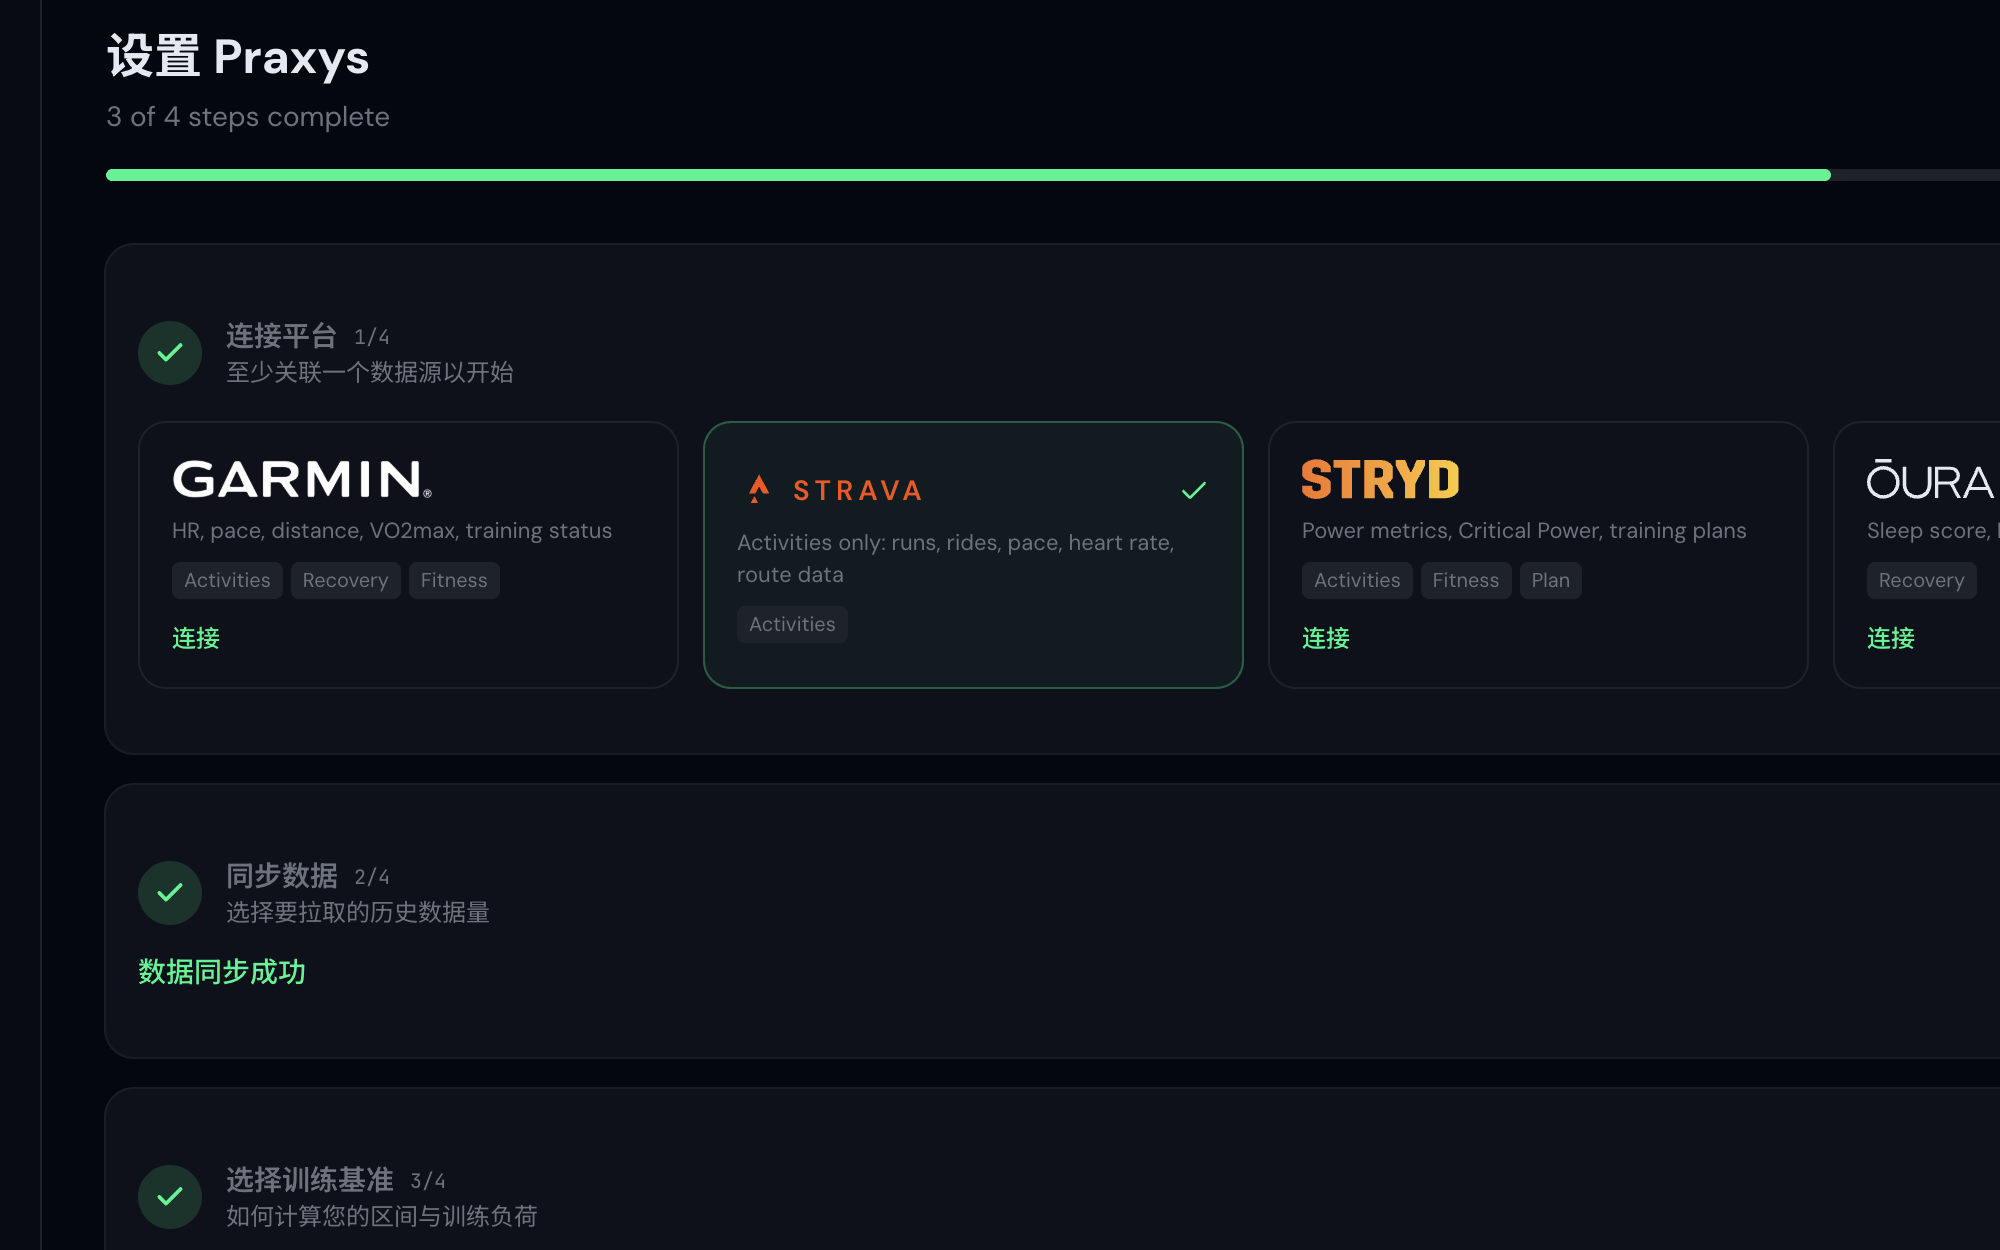
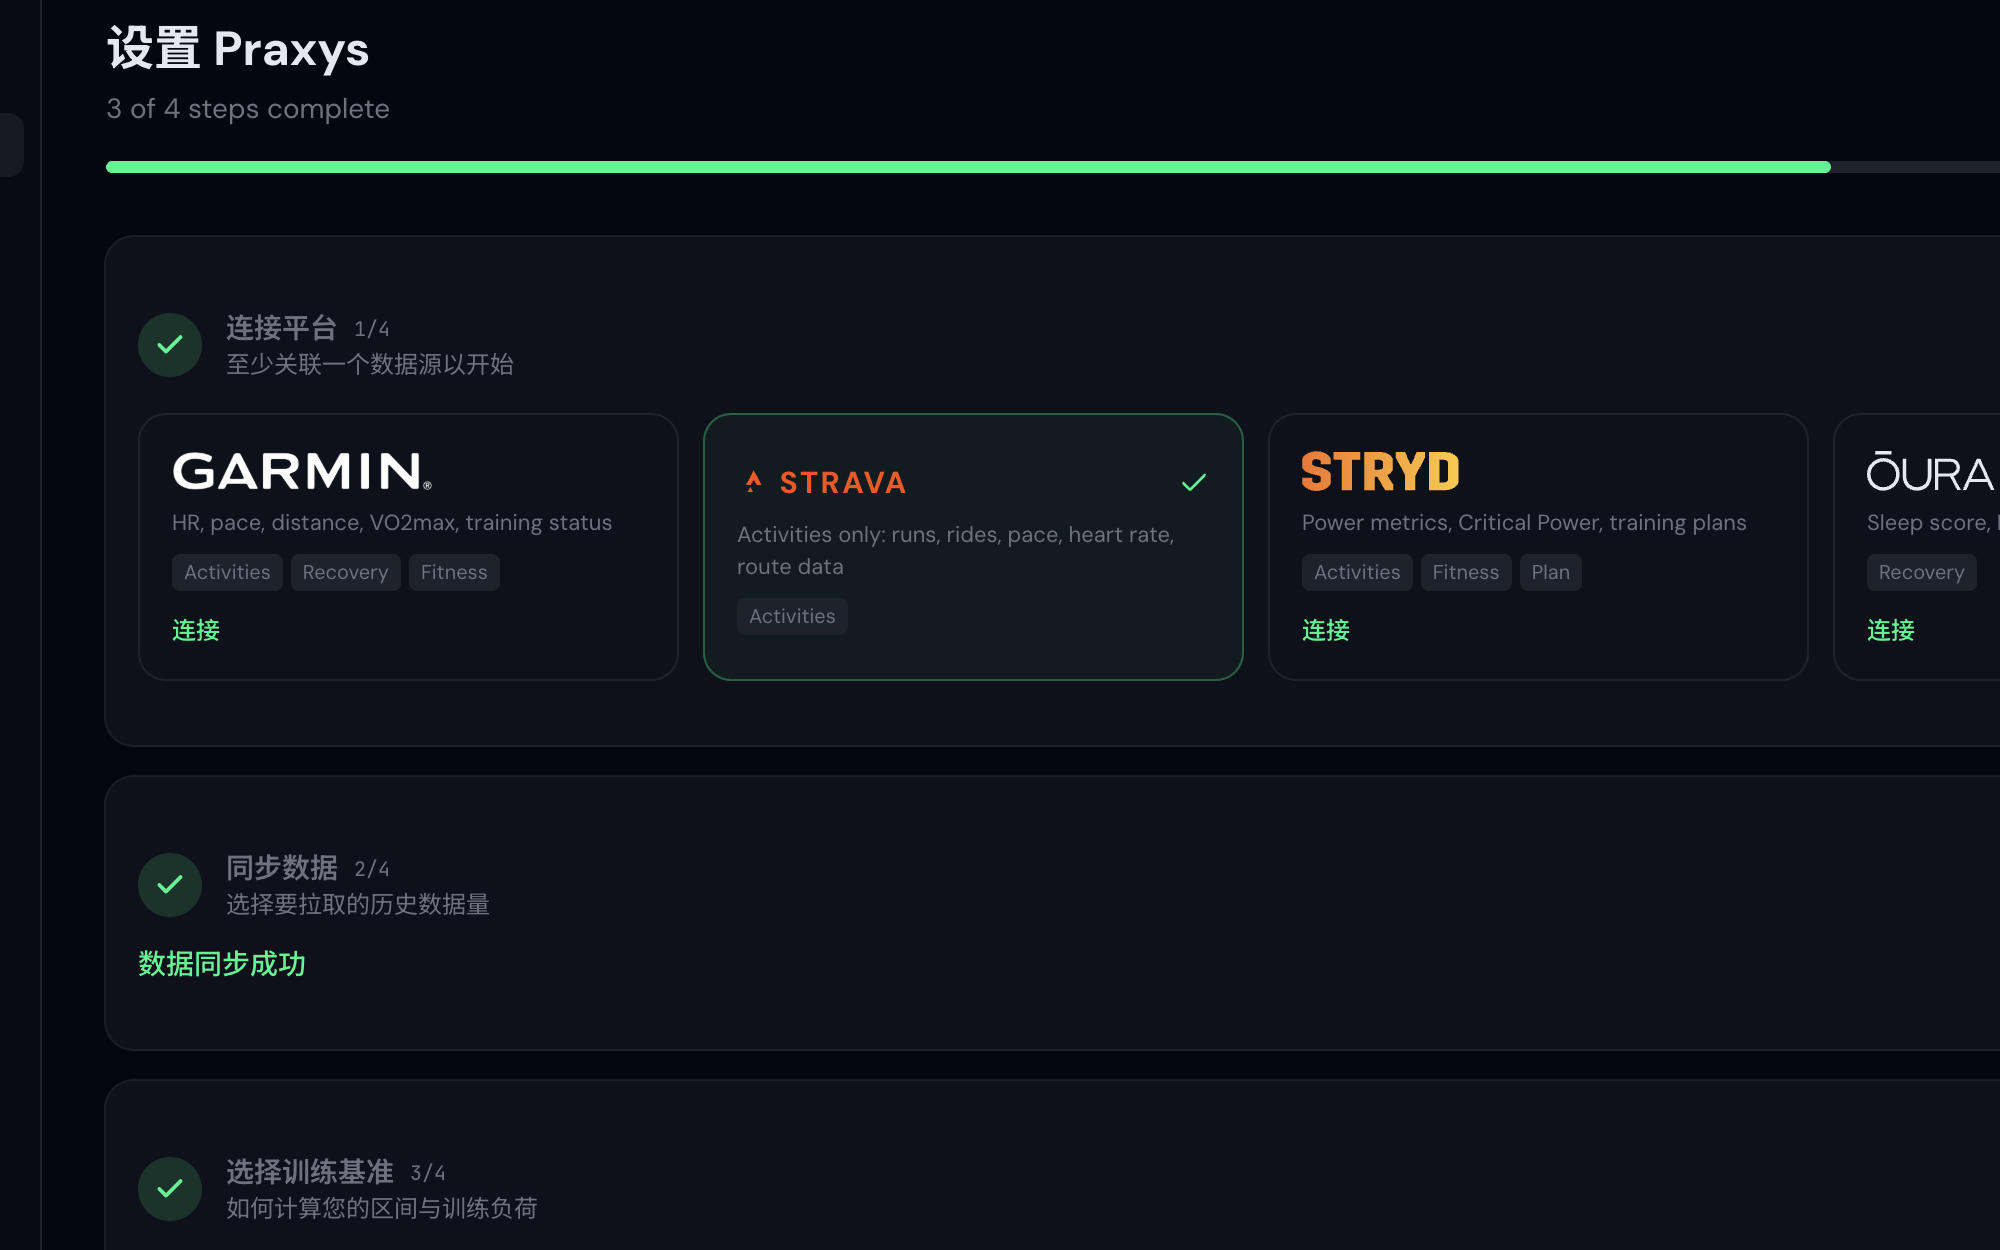
Polish Strava branding and refresh screenshot

diff --git a/web/src/pages/Setup.tsx b/web/src/pages/Setup.tsx
@@ -62,12 +62,22 @@ function StrydWordmark({ className }: { className?: string }) {
 
 function StravaWordmark({ className }: { className?: string }) {
   return (
-    <div className={`flex items-center gap-2 text-[#fc4c02] ${className ?? ''}`} aria-label="Strava">
-      <svg viewBox="0 0 24 24" fill="currentColor" className="h-5 w-auto shrink-0" aria-hidden="true">
+    <div
+      className={`inline-flex h-5 items-center gap-1.5 text-[#fc4c02] ${className ?? ''}`}
+      aria-label="Strava"
+    >
+      <svg
+        viewBox="0 0 24 24"
+        fill="currentColor"
+        className="h-5 w-[0.95rem] shrink-0"
+        aria-hidden="true"
+      >
         <path d="M13.25 2 7.1 13.55h3.84l2.31-4.2 2.37 4.2h3.83L13.25 2Z" />
         <path d="m10.47 15.18-2.2 4.02h4.4l-2.2-4.02Z" />
       </svg>
-      <span className="text-sm font-semibold uppercase tracking-[0.18em]">Strava</span>
+      <span className="text-[0.95rem] font-bold uppercase leading-none tracking-[0.08em]">
+        STRAVA
+      </span>
     </div>
   );
 }

diff --git a/web/src/pages/Settings.tsx b/web/src/pages/Settings.tsx
@@ -50,7 +50,14 @@ const PLATFORM_META: Record<string, { label: string; color: string; icon: React.
     label: 'Strava',
     color: '#fc4c02',
     icon: (
-      <svg viewBox="0 0 24 24" fill="currentColor" className="w-6 h-6" aria-hidden="true">
+      <svg
+        viewBox="0 0 24 24"
+        fill="none"
+        stroke="currentColor"
+        strokeWidth="1.75"
+        className="w-5 h-5"
+        aria-hidden="true"
+      >
         <path d="M13.25 2 7.1 13.55h3.84l2.31-4.2 2.37 4.2h3.83L13.25 2Z" />
         <path d="m10.47 15.18-2.2 4.02h4.4l-2.2-4.02Z" />
       </svg>
